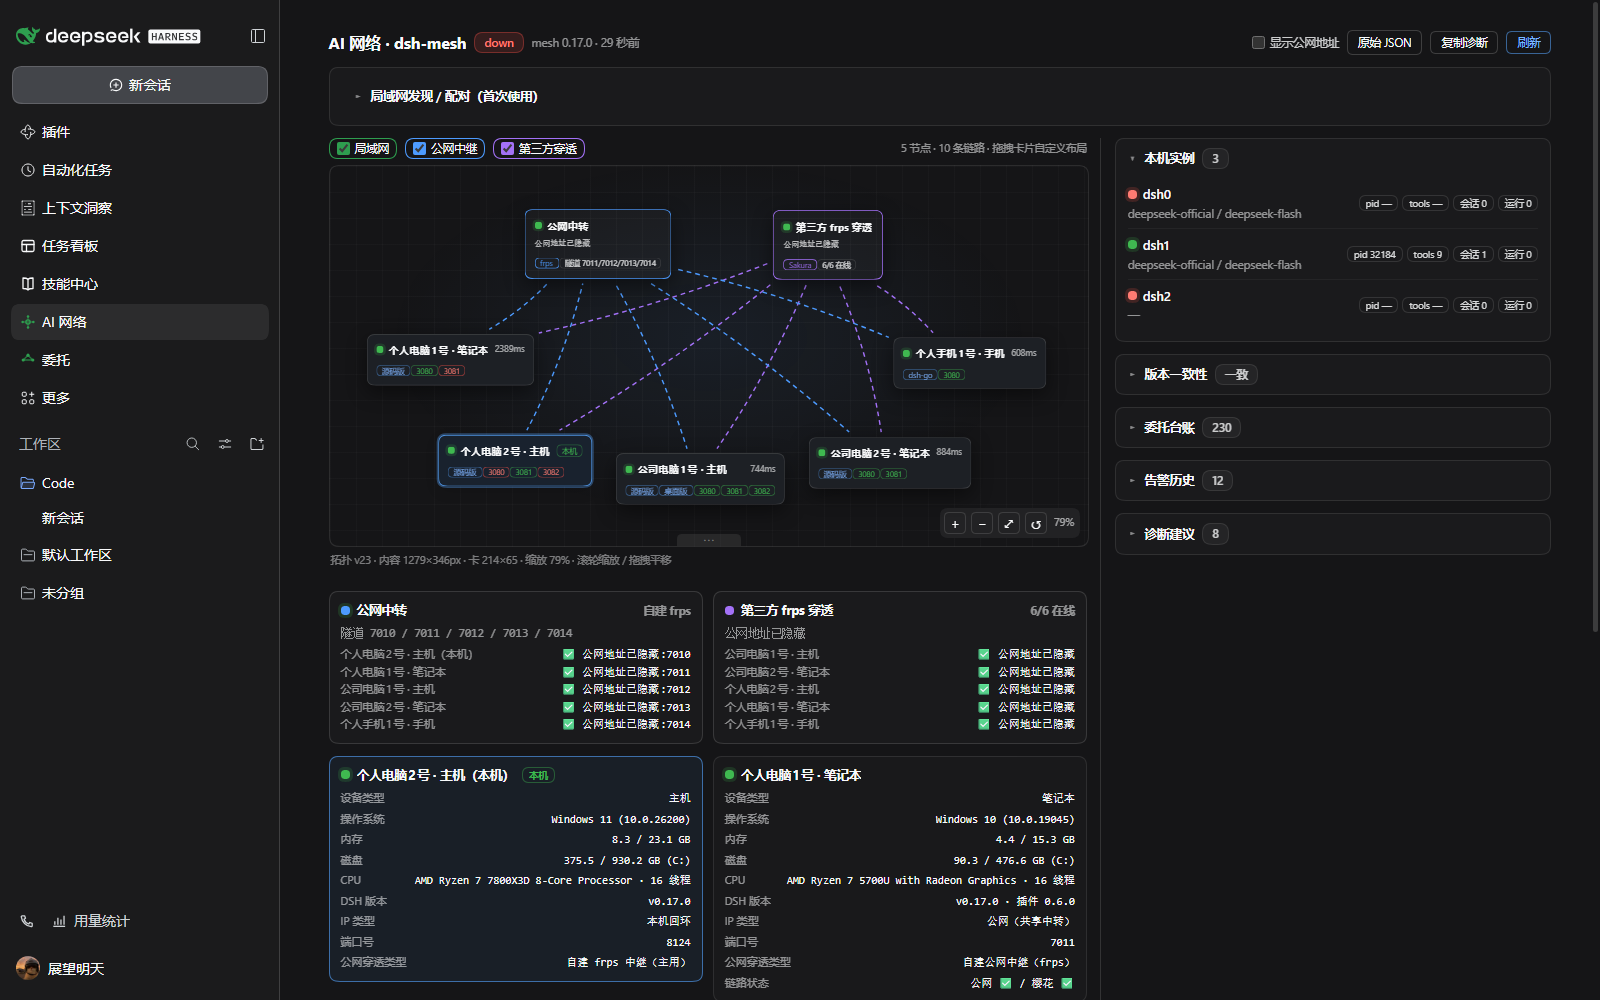
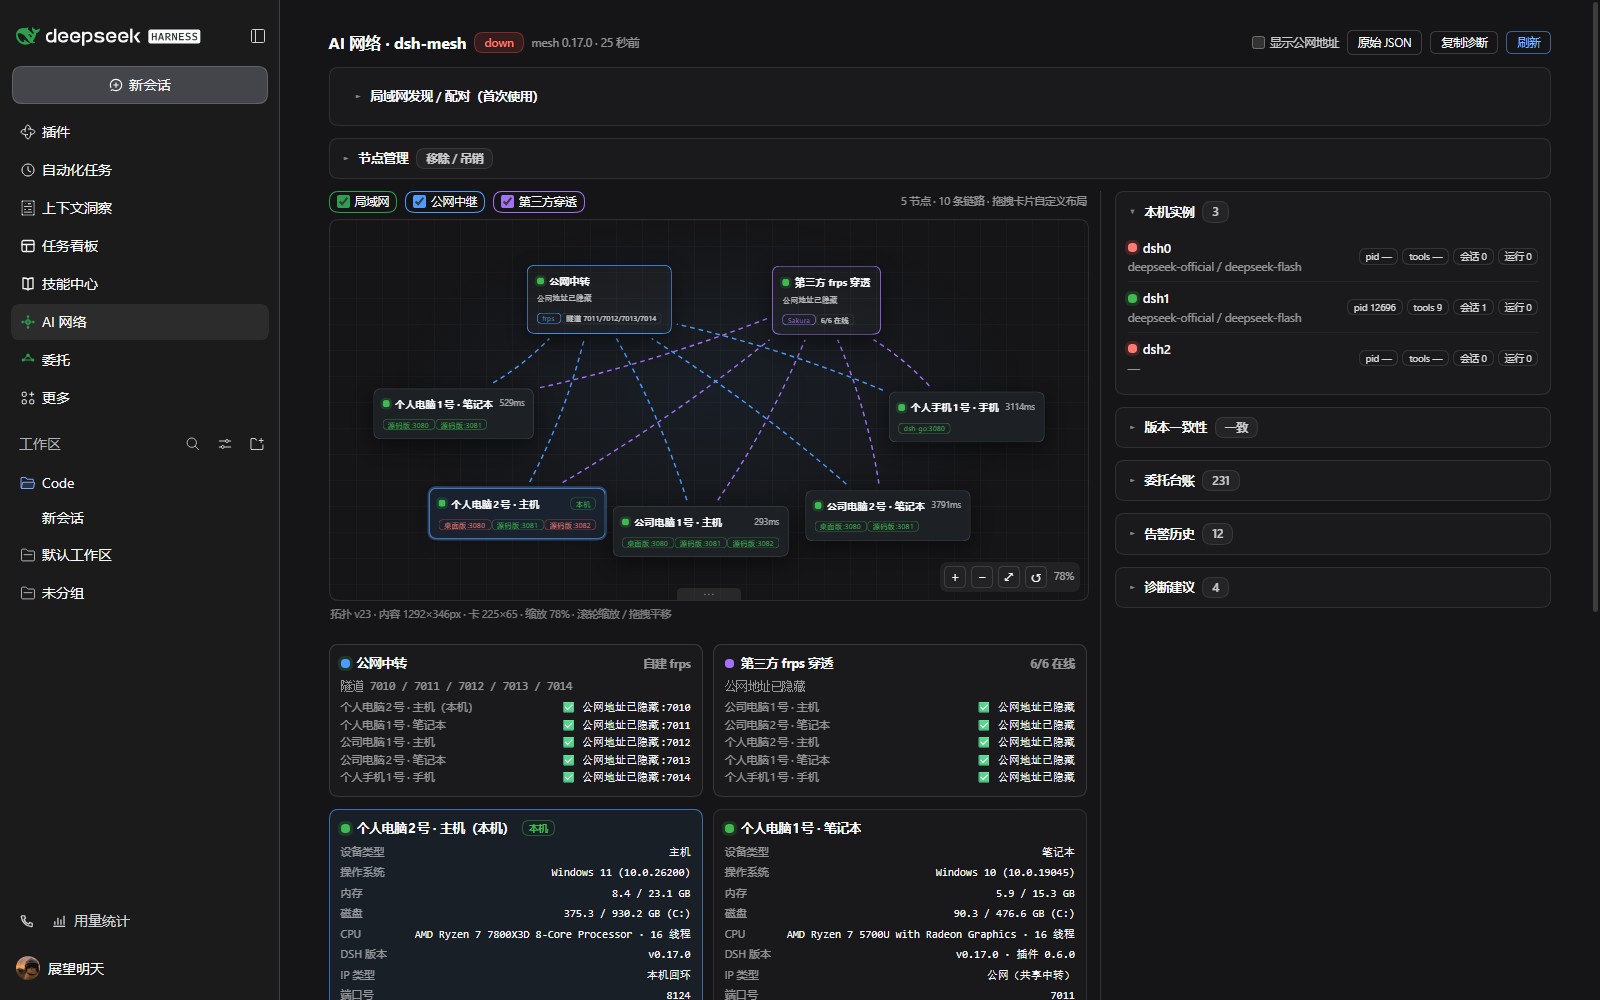
docs(ui): refresh topology screenshot for DSH type:port labels; ui 0.0.29
[why]: screenshot update.

diff --git a/packages/dsh-mesh-ui/lib/client.js b/packages/dsh-mesh-ui/lib/client.js
@@ -1286,10 +1286,12 @@ function deviceLinkState(data, peer, lanMap) {
         ),
         node.up ? null : h('div', { className: 'dm-offline-row' }, '全部链路不可用' + (node.error ? ' · ' + node.error : '')),
         h('div', { className: 'dm-card-dsh' },
-          types.map(function (tp, ti) { return h('span', { key: 't' + ti, className: 'dm-chip type' }, tp) }),
-          (node.ports || []).map(function (item, pi) {
-            return h('span', { key: pi, className: 'dm-chip' + (item.up ? ' run' : ' bad'), title: (item.up ? '在线' : '离线') }, String(item.port))
-          })
+          (node.ports || []).length
+            ? (node.ports || []).map(function (item, pi) {
+              var typeName = types[pi] || types[types.length - 1] || 'DSH'
+              return h('span', { key: pi, className: 'dm-chip type' + (item.up ? ' run' : ' bad'), title: (item.up ? '在线' : '离线') + ' · ' + typeName + ' 端口 ' + item.port }, typeName + ':' + item.port)
+            })
+            : types.map(function (tp, ti) { return h('span', { key: 't' + ti, className: 'dm-chip type' }, tp) })
         )
       )
     }),
